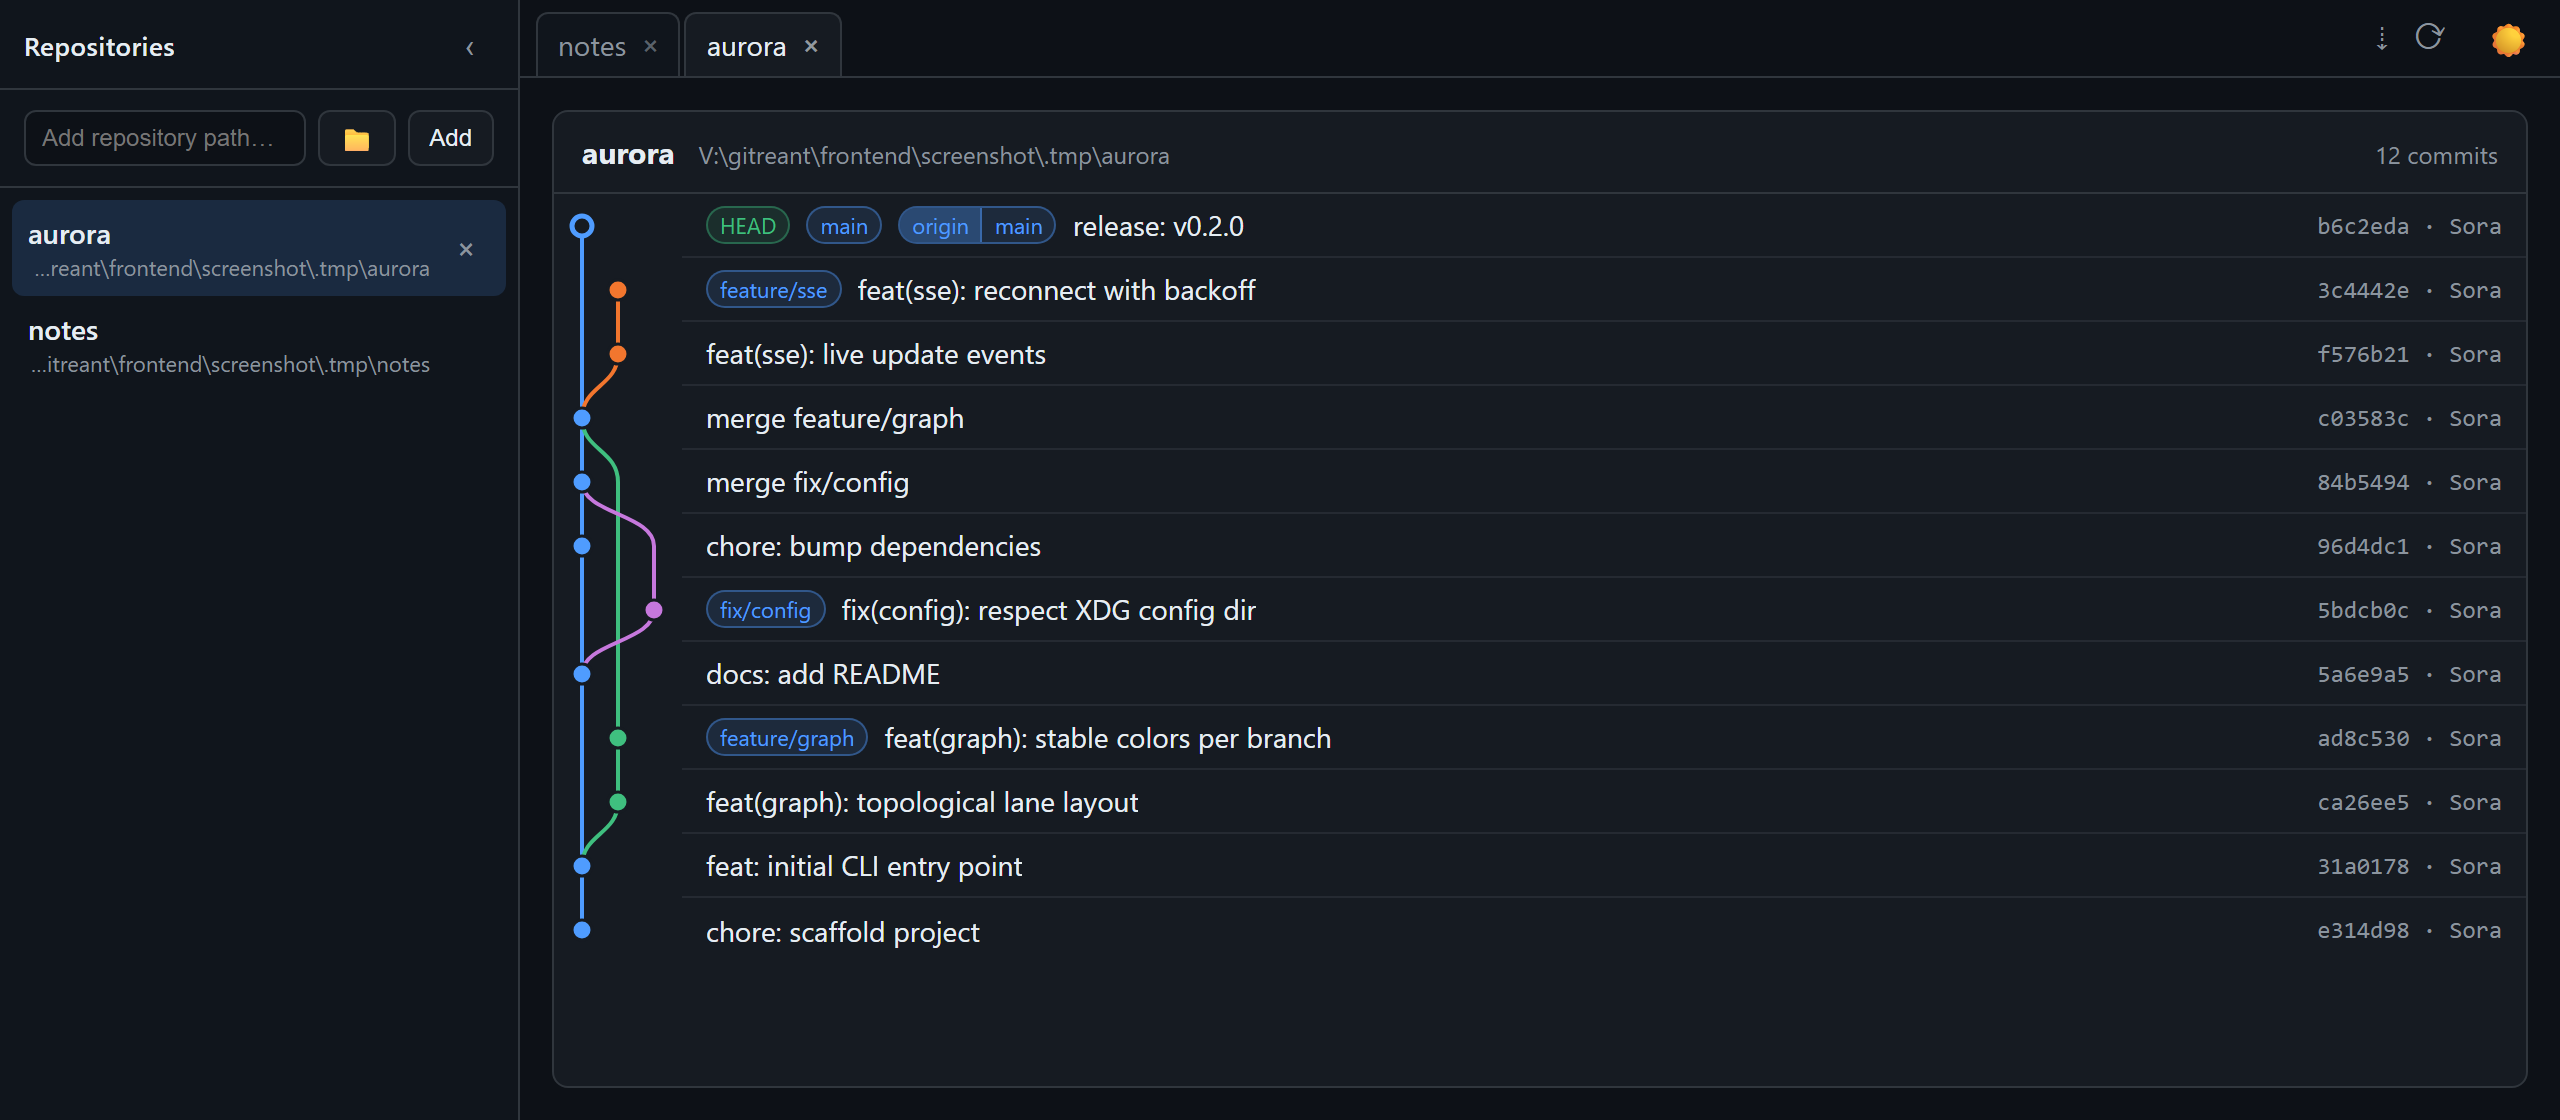
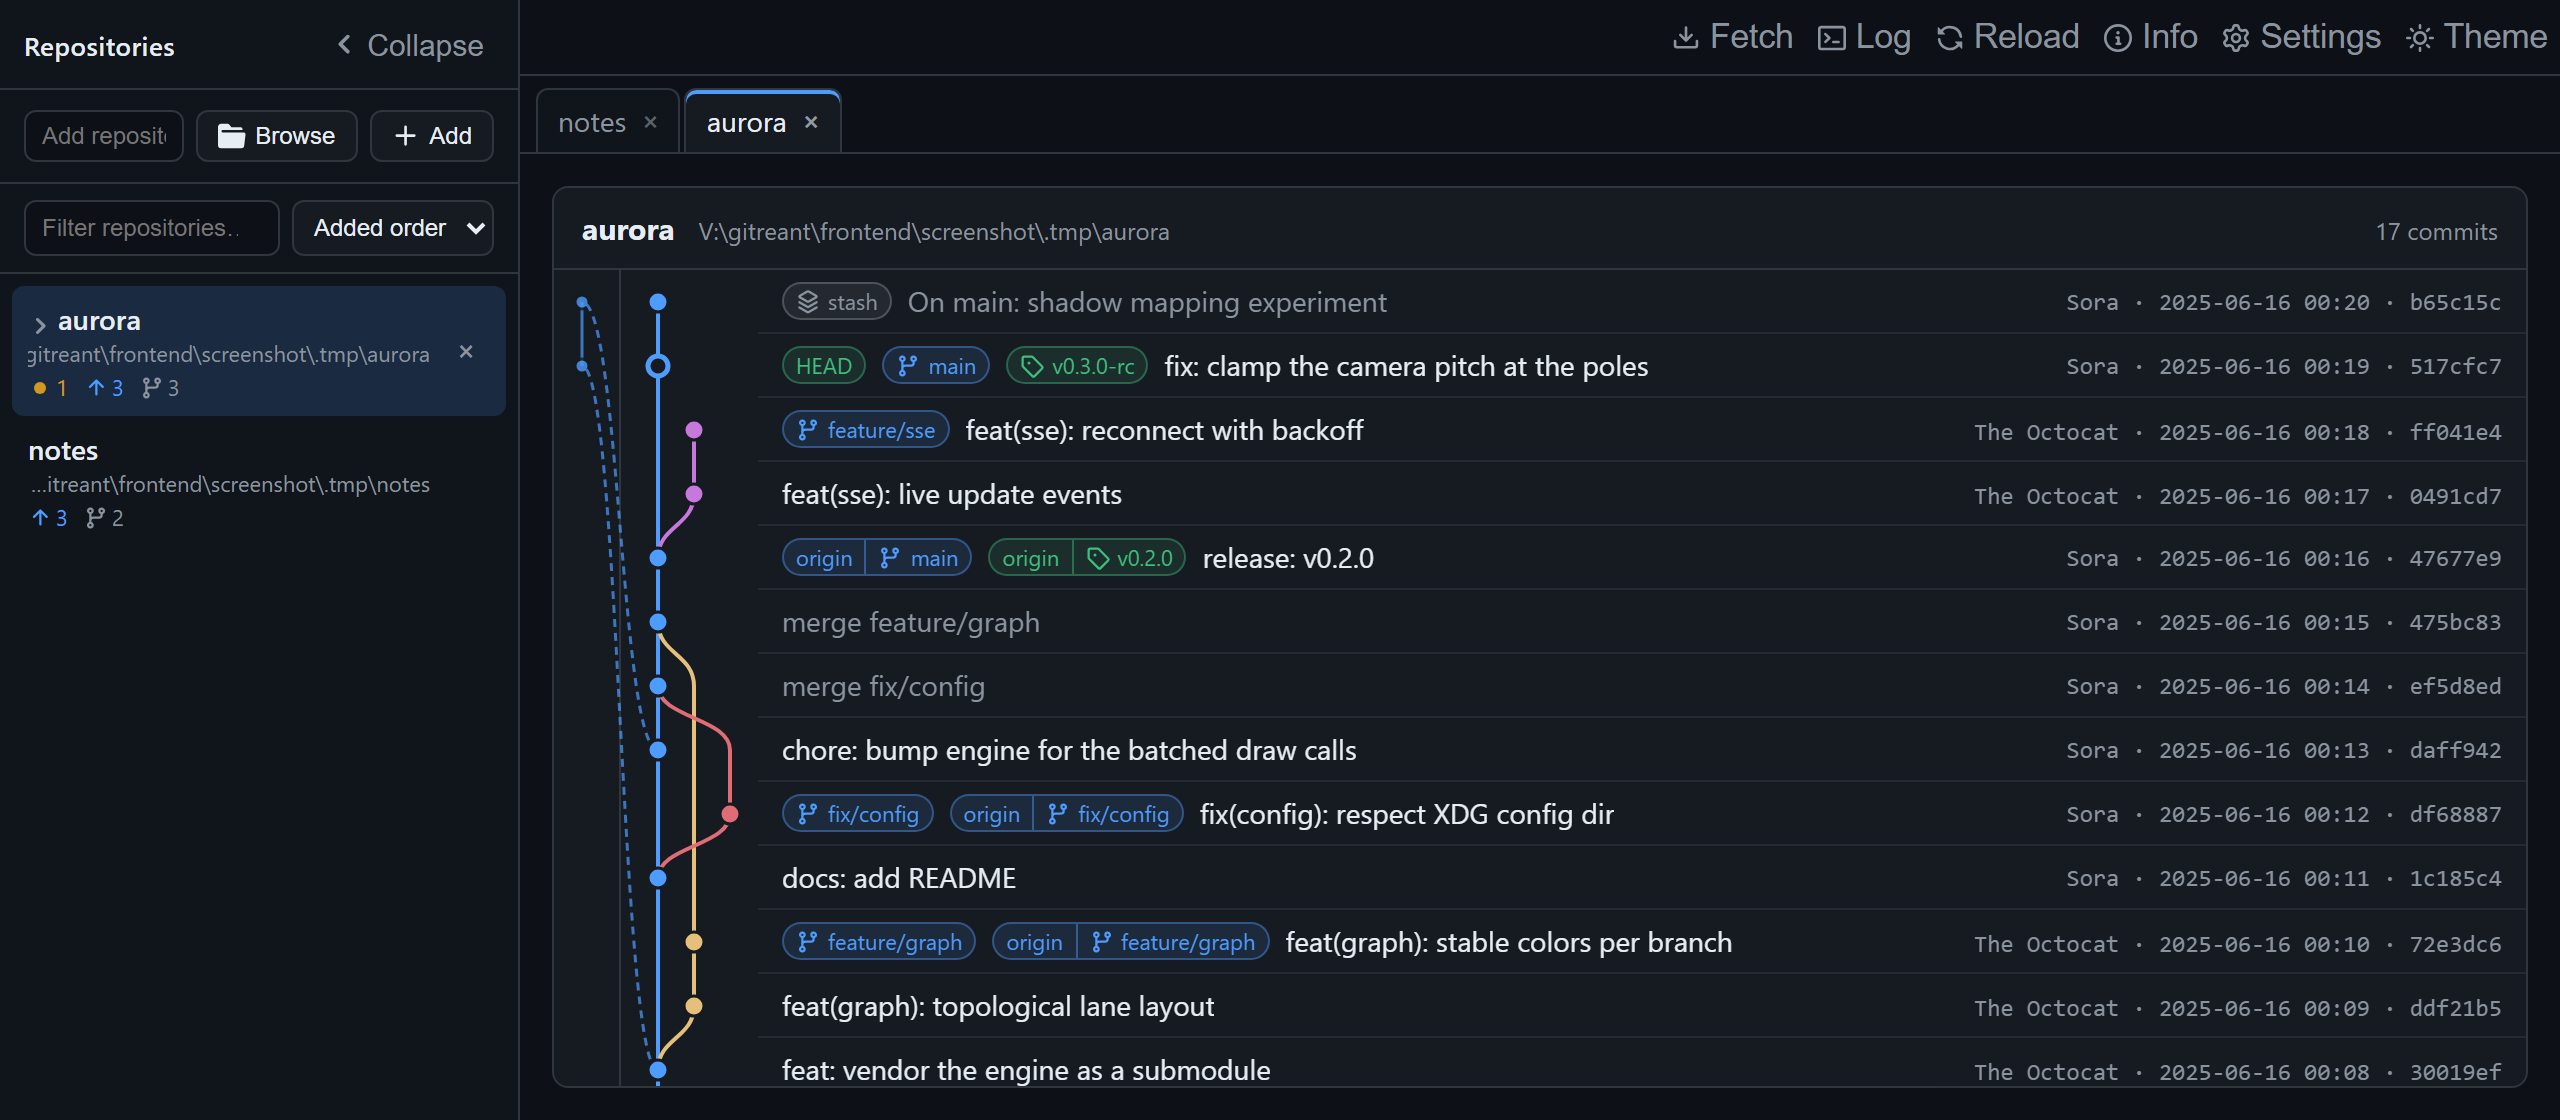
docs: refresh the README screenshots with the current feature set
The declarative screenshot scenario grows steps for what gitreant learned
since the last capture: tag, publish (a bare origin beside the repo, so
pushed refs get their remote chips offline), stash, submodule + bump (two
real pointer updates for the correlation region), dirty, and per-commit
authors with a noreply address for avatars. The featured "aurora" now shows
split badges, a folded stash, the engine correlation region with both
dashed links, avatars and the drawer indicators — and the capture asserts
each of those is in frame. The ad-hoc scripts/demo_repos.sh this replaces
is removed; `pnpm screenshot` remains the one way to regenerate.

diff --git a/frontend/screenshot/scenario.ts b/frontend/screenshot/scenario.ts
@@ -11,50 +11,104 @@ export type Step =
   | { branch: string; from?: string }
   /** Switch to an existing branch. */
   | { switch: string }
-  /** Add an empty commit with this message to the current branch. */
-  | { commit: string }
+  /** Add an empty commit to the current branch, optionally as another author
+   *  (a GitHub noreply email resolves to an avatar without any API call). */
+  | { commit: string; author?: string; email?: string }
   /** Merge a branch (--no-ff) into the current branch. */
   | { merge: string; message?: string }
   /** Point a remote-tracking ref (default remote "origin") at a branch tip. */
-  | { track: string; remote?: string };
+  | { track: string; remote?: string }
+  /** Tag the current HEAD. */
+  | { tag: string }
+  /** Stand up a bare origin beside the repo and push everything so far: the
+   *  branches and tags that exist now get their remote chips, and anything
+   *  committed later counts as unpushed (a drawer indicator). */
+  | { publish: true }
+  /** Stash an untracked scratch file (folds to one node; the internals
+   *  toggle reveals the dashed helper structure). */
+  | { stash: string }
+  /** Vendor another scenario as a submodule at `submodule`, rewound `behind`
+   *  commits so a later `bump` really moves the pointer. Follow with a
+   *  `commit` step to record the gitlink. */
+  | { submodule: string; of: string; behind?: number }
+  /** Fast-forward the submodule at this path to its upstream tip. Follow
+   *  with a `commit` step to record the new pointer. */
+  | { bump: string }
+  /** Leave an untracked file behind: the dirty drawer indicator. */
+  | { dirty: string };
 
 export type Scenario = {
   /** Directory name — shown as the repository name in the UI. */
   name: string;
-  /** Author shown next to each commit. */
+  /** Author shown next to each commit (steps can override per commit). */
   author: string;
+  /** Author email; a GitHub noreply address gives the commits an avatar. */
+  email?: string;
+  /** Serve this repository in the UI (default). Submodule upstreams set
+   *  false: they appear only as a correlation region, not a drawer entry. */
+  serve?: boolean;
   steps: Step[];
 };
 
-/** Number of commits the scenario produces (commits + merge commits). */
+/** Number of rows the scenario shows (commits, merges, and folded stashes). */
 export function commitCount(scenario: Scenario): number {
-  return scenario.steps.filter((s) => "commit" in s || "merge" in s).length;
+  return scenario.steps.filter(
+    (s) => "commit" in s || "merge" in s || "stash" in s,
+  ).length;
 }
 
-/** The repository the screenshot focuses on: three lanes, merges, live tips. */
+/** The Octocat's noreply address: a real avatar with no network lookup. */
+const OCTOCAT = {
+  author: "The Octocat",
+  email: "583231+octocat@users.noreply.github.com",
+};
+
+/** The submodule's upstream: vendored by `featured`, not shown in the drawer. */
+export const engine: Scenario = {
+  name: "engine",
+  author: "Sora",
+  serve: false,
+  steps: [
+    { commit: "feat: renderer core with a fixed timestep", ...OCTOCAT },
+    { commit: "perf: batch draw calls per material" },
+  ],
+};
+
+/** The repository the screenshot focuses on: lanes, merges, split badges, a
+ * folded stash, a submodule correlation region, and drawer indicators. */
 export const featured: Scenario = {
   name: "aurora",
   author: "Sora",
   steps: [
-    { commit: "chore: scaffold project" },
+    { commit: "chore: scaffold project", ...OCTOCAT },
     { commit: "feat: initial CLI entry point" },
+    { submodule: "libs/engine", of: "engine", behind: 1 },
+    { commit: "feat: vendor the engine as a submodule", ...OCTOCAT },
     { branch: "feature/graph" },
-    { commit: "feat(graph): topological lane layout" },
-    { commit: "feat(graph): stable colors per branch" },
+    { commit: "feat(graph): topological lane layout", ...OCTOCAT },
+    { commit: "feat(graph): stable colors per branch", ...OCTOCAT },
     { switch: "main" },
     { commit: "docs: add README" },
     { branch: "fix/config" },
     { commit: "fix(config): respect XDG config dir" },
     { switch: "main" },
-    { commit: "chore: bump dependencies" },
+    { bump: "libs/engine" },
+    { commit: "chore: bump engine for the batched draw calls" },
     { merge: "fix/config", message: "merge fix/config" },
     { merge: "feature/graph", message: "merge feature/graph" },
-    { branch: "feature/sse" },
-    { commit: "feat(sse): live update events" },
-    { commit: "feat(sse): reconnect with backoff" },
-    { switch: "main" },
     { commit: "release: v0.2.0" },
-    { track: "main" },
+    { tag: "v0.2.0" },
+    // Everything above is on the remote: split badges for origin/main and
+    // the v0.2.0 tag chip. Everything below stays local-only.
+    { publish: true },
+    { branch: "feature/sse" },
+    { commit: "feat(sse): live update events", ...OCTOCAT },
+    { commit: "feat(sse): reconnect with backoff", ...OCTOCAT },
+    { switch: "main" },
+    { commit: "fix: clamp the camera pitch at the poles" },
+    { tag: "v0.3.0-rc" },
+    { stash: "shadow mapping experiment" },
+    { dirty: "ideas.txt" },
   ],
 };
 
@@ -71,4 +125,5 @@ export const sidekick: Scenario = {
   ],
 };
 
-export const scenarios: Scenario[] = [featured, sidekick];
+/** Build order matters: submodule upstreams come before their consumers. */
+export const scenarios: Scenario[] = [engine, featured, sidekick];

diff --git a/frontend/screenshot/build.ts b/frontend/screenshot/build.ts
@@ -1,3 +1,4 @@
+import { writeFileSync } from "node:fs";
 import path from "node:path";
 import { atTime, commit, git, initRepo } from "../e2e/git";
 import type { Scenario } from "./scenario";
@@ -8,6 +9,8 @@ const STEP_SECONDS = 60;
 /**
  * Materialize a scenario as a real git repository under `baseDir`.
  * Commits are empty and timestamped deterministically from `startEpoch`.
+ * Submodule upstreams referenced by `{ submodule }` steps must have been
+ * built (as siblings under `baseDir`) before the consuming scenario.
  */
 export function buildScenario(
   baseDir: string,
@@ -15,10 +18,16 @@ export function buildScenario(
   startEpoch: number,
 ): string {
   const dir = initRepo(path.join(baseDir, scenario.name));
-  const author = {
-    GIT_AUTHOR_NAME: scenario.author,
-    GIT_COMMITTER_NAME: scenario.author,
-  };
+  const authorEnv = (name?: string, email?: string) => ({
+    GIT_AUTHOR_NAME: name ?? scenario.author,
+    GIT_COMMITTER_NAME: name ?? scenario.author,
+    ...(email ?? scenario.email
+      ? {
+          GIT_AUTHOR_EMAIL: (email ?? scenario.email)!,
+          GIT_COMMITTER_EMAIL: (email ?? scenario.email)!,
+        }
+      : {}),
+  });
   let epoch = startEpoch;
 
   for (const step of scenario.steps) {
@@ -34,14 +43,55 @@ export function buildScenario(
         `refs/remotes/${step.remote ?? "origin"}/${step.track}`,
         step.track,
       ]);
+    } else if ("tag" in step) {
+      git(dir, ["tag", step.tag]);
+    } else if ("publish" in step) {
+      // A bare clone beside the repo becomes "origin": it carries every ref
+      // that exists right now, so those get remote chips (ls-remote works
+      // against a local path) while later commits count as unpushed.
+      const origin = `${dir}-origin`;
+      git(dir, ["clone", "-q", "--bare", ".", origin]);
+      git(dir, ["remote", "add", "origin", origin]);
+      git(dir, ["fetch", "-q", "origin"]);
+      git(dir, ["branch", "-q", "-u", "origin/main", "main"]);
+    } else if ("stash" in step) {
+      writeFileSync(path.join(dir, "scratch.txt"), "wip\n");
+      git(dir, ["stash", "push", "-q", "-u", "-m", step.stash], {
+        ...atTime(epoch),
+        ...authorEnv(),
+      });
+      epoch += STEP_SECONDS;
+    } else if ("submodule" in step) {
+      git(dir, [
+        "-c",
+        "protocol.file.allow=always",
+        "submodule",
+        "add",
+        "-q",
+        `../${step.of}`,
+        step.submodule,
+      ]);
+      const sub = path.join(dir, step.submodule);
+      git(sub, ["config", "commit.gpgsign", "false"]);
+      const behind = step.behind ?? 1;
+      if (behind > 0) {
+        git(sub, ["switch", "-q", "--detach", `HEAD~${behind}`]);
+        git(dir, ["add", step.submodule]);
+      }
+    } else if ("bump" in step) {
+      const sub = path.join(dir, step.bump);
+      git(sub, ["switch", "-q", "main"]);
+      git(dir, ["add", step.bump]);
+    } else if ("dirty" in step) {
+      writeFileSync(path.join(dir, step.dirty), "todo\n");
     } else if ("commit" in step) {
-      commit(dir, step.commit, epoch, author);
+      commit(dir, step.commit, epoch, authorEnv(step.author, step.email));
       epoch += STEP_SECONDS;
     } else {
       git(
         dir,
         ["merge", "--no-ff", "-q", "-m", step.message ?? `merge ${step.merge}`, step.merge],
-        { ...atTime(epoch), ...author },
+        { ...atTime(epoch), ...authorEnv() },
       );
       epoch += STEP_SECONDS;
     }

diff --git a/frontend/screenshot/shoot.spec.ts b/frontend/screenshot/shoot.spec.ts
@@ -33,6 +33,19 @@ for (const theme of ["dark", "light"] as const) {
       );
     expect(curved).toBeGreaterThan(0);
 
+    // The features the README advertises must be in frame: the submodule
+    // correlation region with both pointer links, the pushed-ref chips, the
+    // author avatars, and the drawer's dirty indicator. Waiting on them also
+    // lets the async loads land before the capture.
+    await expect(page.getByTestId("submodule-edge")).toHaveCount(2);
+    expect(
+      await page.getByTestId("badge-remote").count(),
+    ).toBeGreaterThanOrEqual(2);
+    await expect(page.getByTestId("commit-avatar").first()).toBeAttached();
+    await expect(page.getByTestId("stat-dirty")).toBeVisible();
+    // Let the avatar images finish painting.
+    await page.waitForTimeout(800);
+
     await page.screenshot({
       path: path.join(outDir, `screenshot-${theme}.png`),
     });

diff --git a/frontend/screenshot/global-setup.ts b/frontend/screenshot/global-setup.ts
@@ -17,8 +17,15 @@ export default async function globalSetup(_config: FullConfig) {
   rmSync(tmpDir, { recursive: true, force: true });
   mkdirSync(tmpDir, { recursive: true });
 
-  const repos = scenarios.map((s) => buildScenario(tmpDir, s, START_EPOCH));
-  server = await buildAndServe(PORT, repos);
+  // Build everything (submodule upstreams first), but only serve the
+  // scenarios meant for the drawer.
+  const repos = scenarios.map(
+    (s) => [s, buildScenario(tmpDir, s, START_EPOCH)] as const,
+  );
+  server = await buildAndServe(
+    PORT,
+    repos.filter(([s]) => s.serve !== false).map(([, dir]) => dir),
+  );
 
   return async () => {
     server?.kill();
